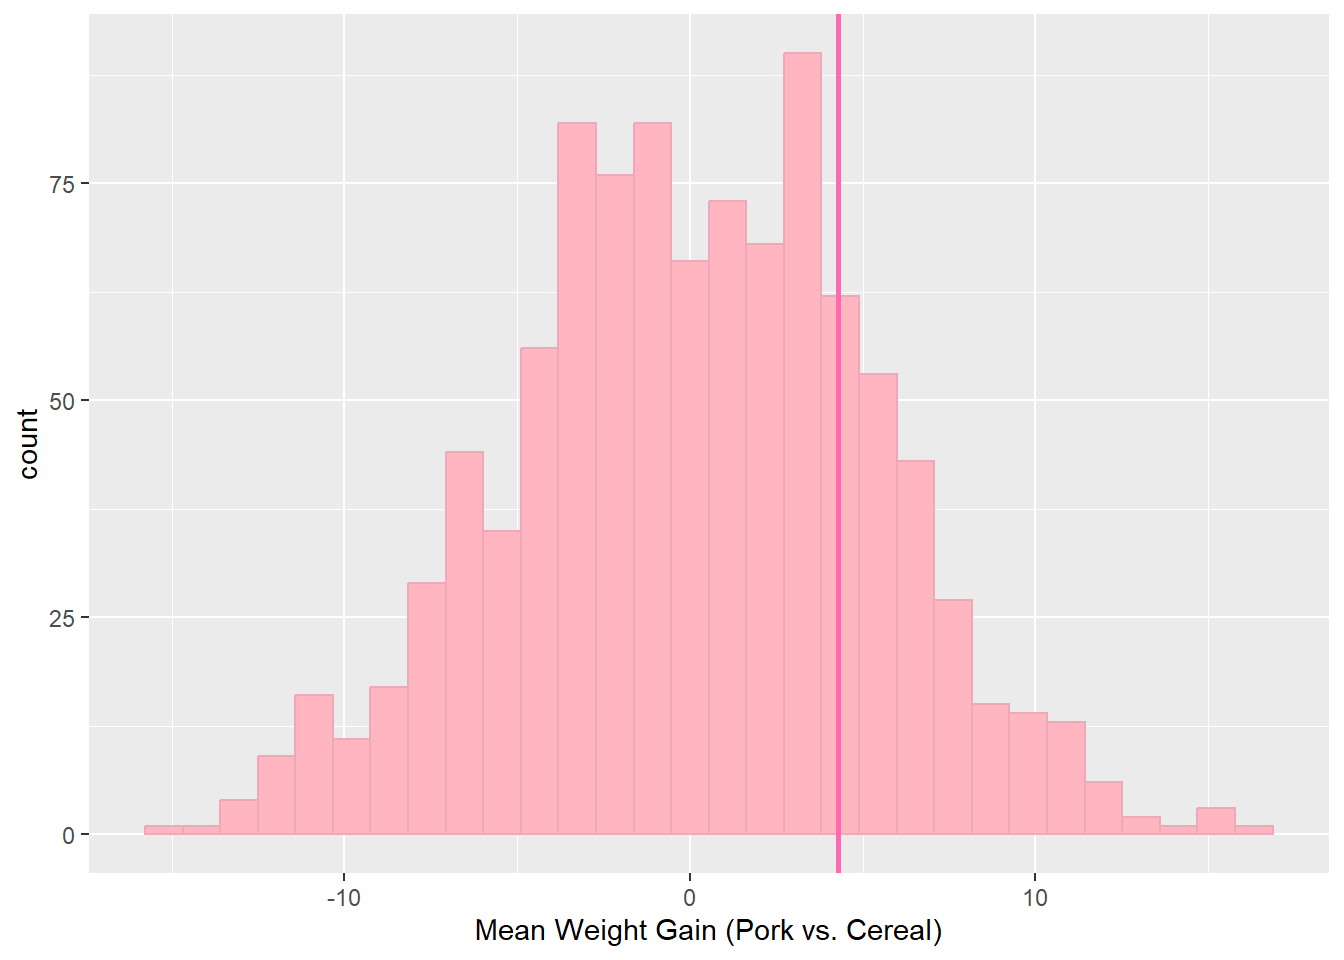
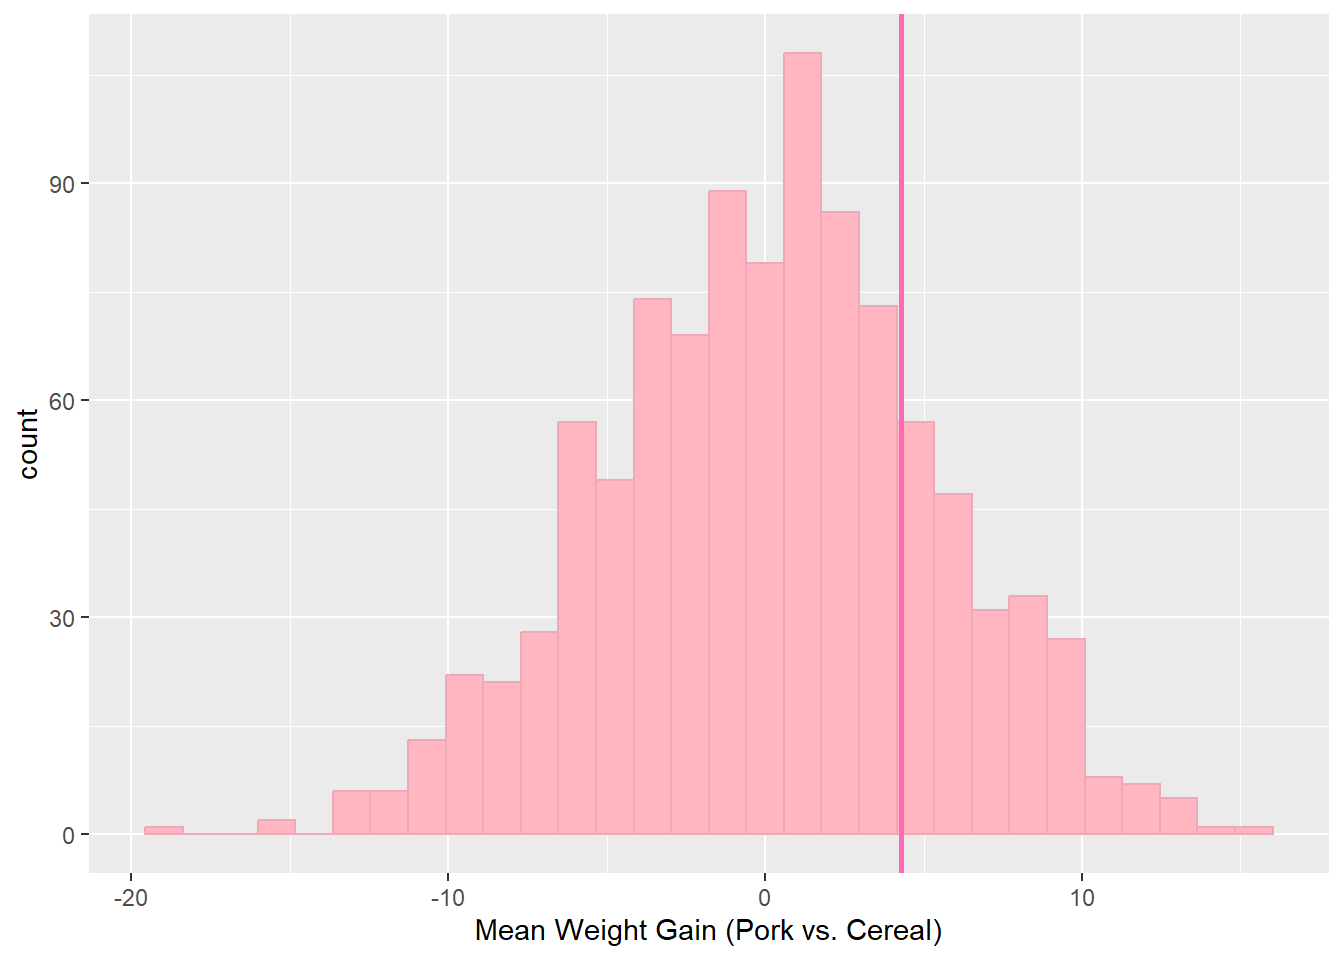
RaTs

diff --git a/docs/mini_project2.html b/docs/mini_project2.html
@@ -151,27 +151,27 @@ ul.task-list li input[type="checkbox"] {
 <section id="fat-rats" class="level3">
 <h3 class="anchored" data-anchor-id="fat-rats">Fat Rats!</h3>
 <p><img src="images/FP_5427726_BARM_Rats_071810.webp" class="img-fluid"></p>
-<p>For this project, I examined the dataset FatRats, which has data from an experiment on the effects of diet on the weight gain of rats. The study had 60 baby rat participants, which were split up into groups and fed different sources of protein(Beef, Cereal, and Pork). The resulting dataset shows the weight gain for each rat from their protein source.</p>
+<p>For this project, I examined the dataset FatRats, which has data from an experiment on the effects of diet on the weight gain of rats. The study had 60 baby rat participants, which were split up into groups and fed different sources of protein (Beef, Cereal, and Pork). The resulting dataset shows the weight gain for each rat from their protein source.</p>
 <p>I decided to conduct a randomization-type test by simulating the behavior under the null hypothesis. I wanted to see if the results of the study would be significant. I did this by running simulations of the study and randomizing the protein source to see if a random test would produce significantly different responses than the experiment did.</p>
-<p>The following graphs show the difference in average weight gains between different proteins with the randomized test, which shows what might happen if protein had no effect. The hot pink vertical line shows the average weight gain from the study that was run. The p-values below each chart show the probability under the null hypothesis(our randomized experiment) of obtaining a test statistic at least as extreme as the one obtained. The p-values are calculated by looking at how many of the randomized statistics are greater than or equal to the observed statistics from the rat study.</p>
+<p>The following graphs show the difference in average weight gains between different proteins with the randomized test, which shows what might happen if protein had no effect. The hot pink vertical line shows the average weight gain from the study that was run. The p-values below each chart show the probability under the null hypothesis (our randomized experiment) of obtaining a test statistic at least as extreme as the one obtained. The p-values are calculated by looking at how many of the randomized statistics are greater than or equal to the observed statistics from the rat study.</p>
 <div class="cell">
 <div class="cell-output-display">
 <p><img src="mini_project2_files/figure-html/unnamed-chunk-3-1.png" class="img-fluid" width="672"></p>
 </div>
 <div class="cell-output cell-output-stdout">
-<pre><code>Beef vs. Pork p-value: 0.297 </code></pre>
+<pre><code>Beef vs. Pork p-value: 0.293 </code></pre>
 </div>
 <div class="cell-output-display">
 <p><img src="mini_project2_files/figure-html/unnamed-chunk-3-2.png" class="img-fluid" width="672"></p>
 </div>
 <div class="cell-output cell-output-stdout">
-<pre><code>Beef vs. Cereal p-value: 0.307 </code></pre>
+<pre><code>Beef vs. Cereal p-value: 0.296 </code></pre>
 </div>
 <div class="cell-output-display">
 <p><img src="mini_project2_files/figure-html/unnamed-chunk-3-3.png" class="img-fluid" width="672"></p>
 </div>
 <div class="cell-output cell-output-stdout">
-<pre><code>Pork vs. Cereal p-value: 0.293 </code></pre>
+<pre><code>Pork vs. Cereal p-value: 0.294 </code></pre>
 </div>
 </div>
 <p>As we can see, all of the p-values are close to 0.3. Generally, if the p-value is less than 0.05, we will consider the results of the study statistically significant. Because these results are well over the point of statistical significance, we can fail to reject the null hypothesis and claim that the difference in weight gains due to different proteins is not statistically significant.</p>
